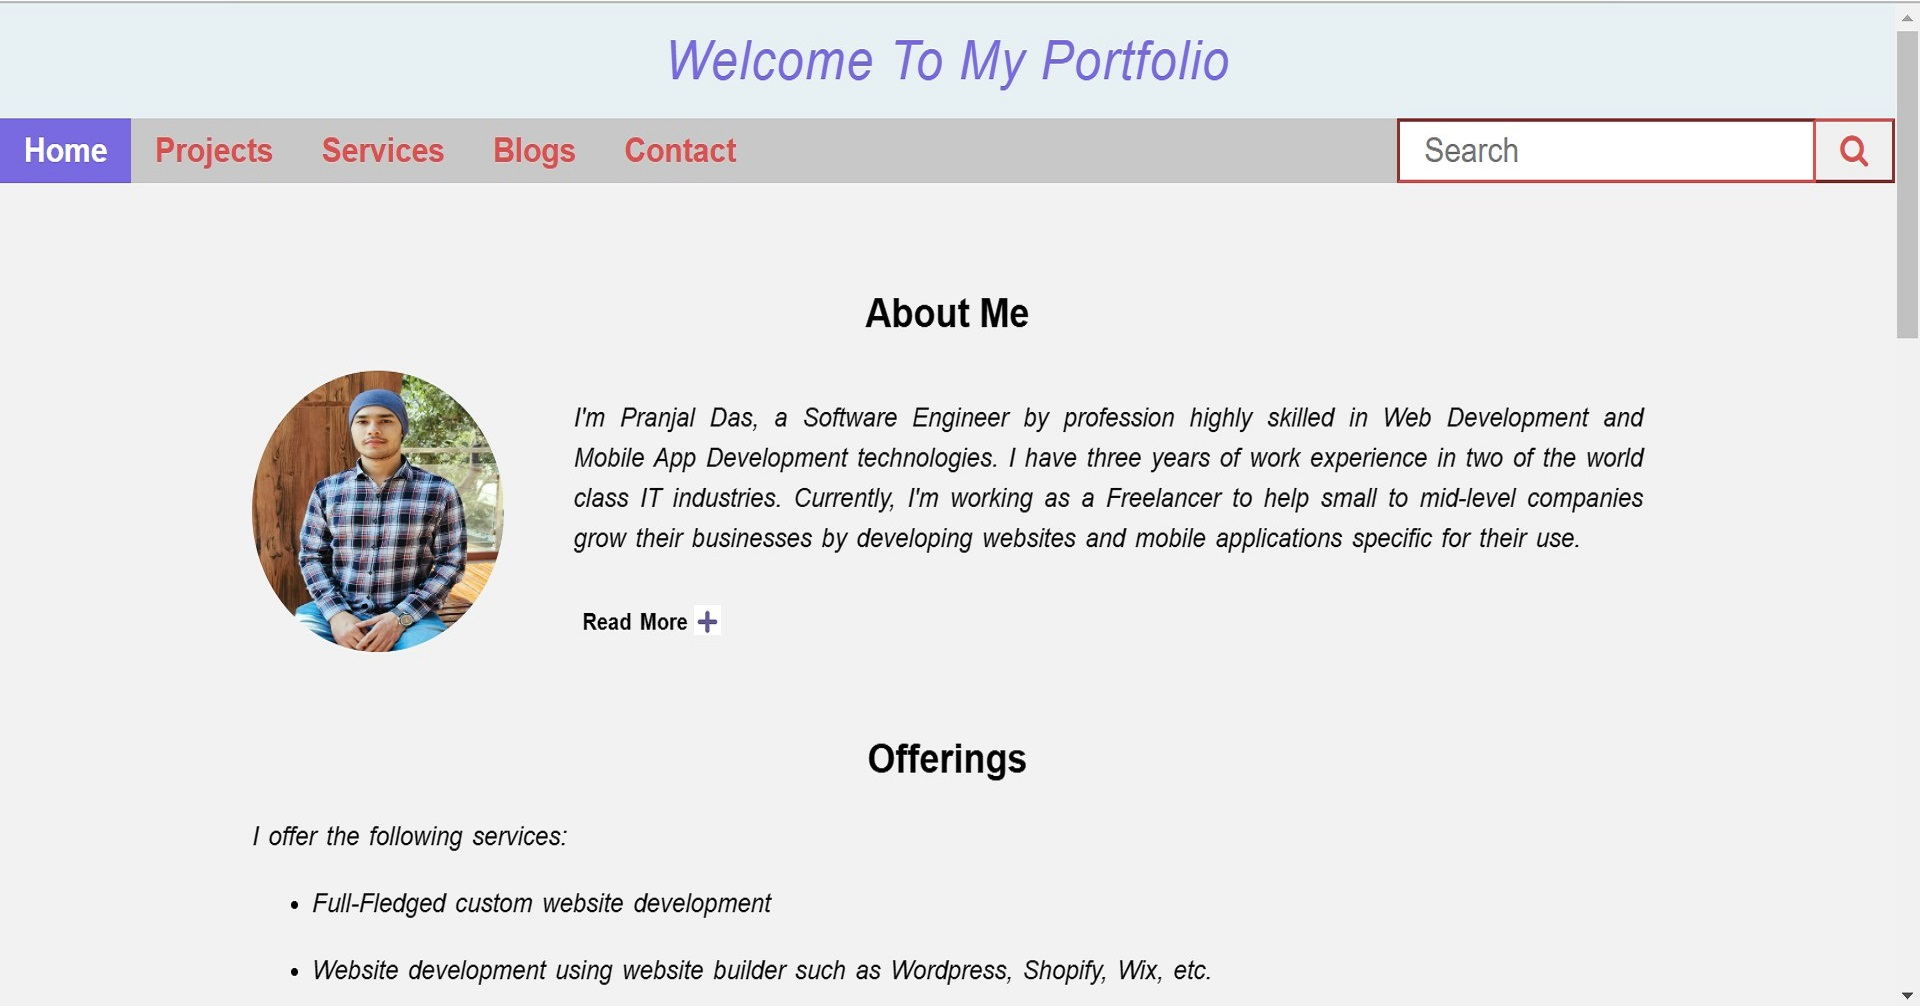
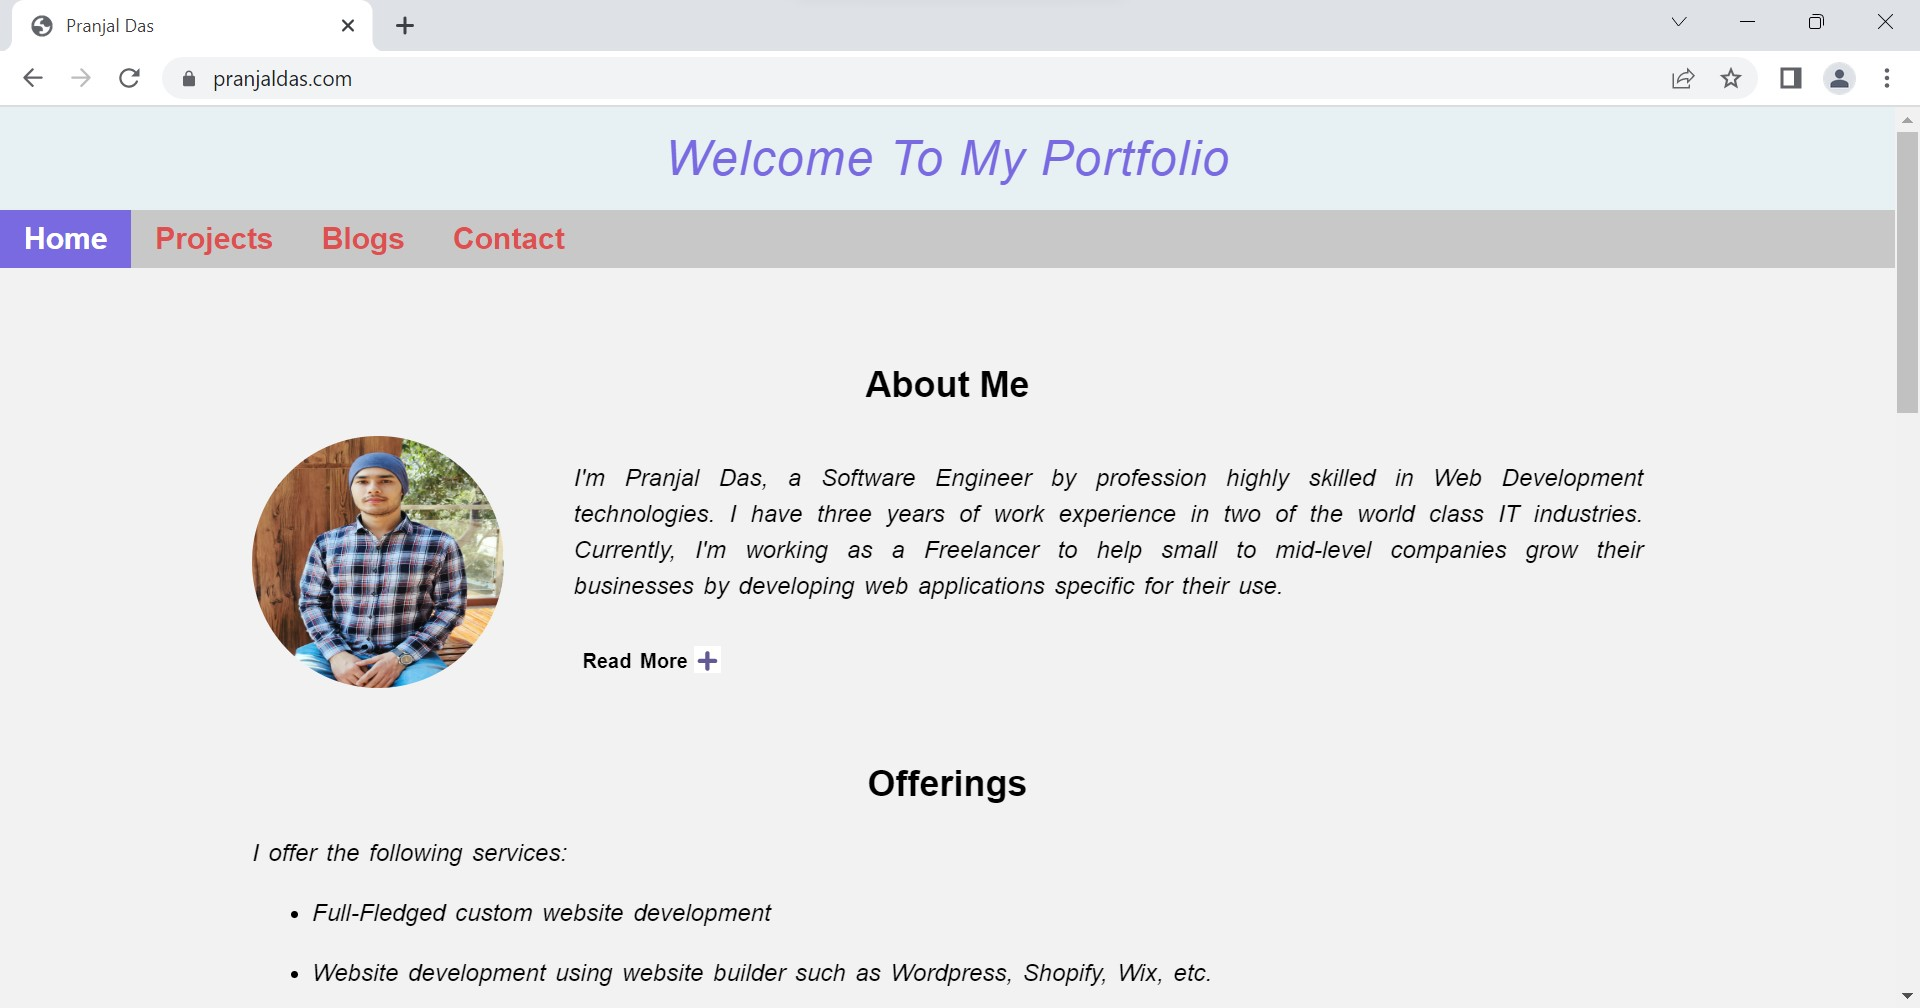
Made mobile responsive (#2)

diff --git a/resources/css/index.css b/resources/css/index.css
@@ -102,7 +102,10 @@ p {
 .nav-bar .nav-icon {
   display: none;
 }
-@media screen and (max-width: 856px) {
+@media screen and (max-width: 968px) {
+  h1 {
+    font-size: medium;
+  }
   .nav-bar a:not(:first-child), .search-container {
     display: none;
   }
@@ -168,6 +171,18 @@ footer .social-media a:hover, .copyright a:hover {
   background-color: #848282;
   color: white;
 }
+@media screen and (max-width: 560px) {
+  #scroll-top {
+    margin-right: 0px;
+  }
+  footer {
+    padding: 16px 8px 64px;
+  }
+  footer .copyright {
+    width: 100%;
+    padding-top: 16px;
+  }
+}
 
 /* Style the main section */
 main {
@@ -216,6 +231,16 @@ main {
   content: "\2796"; /* Unicode character for "minus" sign */
   float: right;
   background-color: white;
+}
+@media screen and (max-width: 968px) {
+  main {
+    margin: 64px 16px;
+  }
+  .introduction img {
+    margin-left: 20%;
+    margin-right: 60%;
+    margin-bottom: 16px;
+  }
 }
 
 /* Style the collapsible content in about section, hidden by default */
@@ -270,7 +295,7 @@ main {
   color: black;
 }
 /* Add media queries to center both the text and the image inside the container */
-@media (max-width: 720px) {
+@media (max-width: 968px) {
   .reviews {
     text-align: left;
   }
@@ -280,6 +305,8 @@ main {
     display: block;
   }
   .reviews a {
+    width: 100%;
+    padding-top: 16px;
     float: left;
   }
 }

diff --git a/resources/css/contact.css b/resources/css/contact.css
@@ -6,6 +6,16 @@ h1, footer, #scroll-top {
 .sticky + .connect {
   padding-top: 56px;
 }
+
+.connect {
+  border: none;
+  margin: 32px 80px;
+}
+
+.connect p {
+  text-align: center;
+}
+
 /* Create two columns that float next to eachother */
 .column {
   float: left;
@@ -19,17 +29,21 @@ h1, footer, #scroll-top {
   display: table;
   clear: both;
 }
-.connect {
-  border: none;
-  margin: 32px 80px;
-}
-.connect p {
-  text-align: center;
-}
+
 /* Responsive layout - when the screen is small, make the two columns stack on top of each other instead of next to each other */
-@media screen and (max-width: 600px) {
-  .column, #send {
+@media screen and (max-width: 968px) {
+  .connect {
+    margin: 32px 16px;
+  }
+  .connect p {
+    text-align: left;
+  }
+  .column {
     width: 100%;
+    padding: 20px 0px;
     margin-top: 0;
+  }
+  #send {
+    width: 100%;
   }
 }

diff --git a/resources/css/blogs.css b/resources/css/blogs.css
@@ -52,3 +52,22 @@ main {
   padding: 8px;
   width: 100%;
 }
+
+@media screen and (max-width: 968px) {
+  .content-nav-bar {
+    margin: 16px;
+    position: static;
+  }
+  main {
+    margin-left: 16px;
+    margin-right: 16px;
+  }
+  .collapse {
+    font-size: small;
+    text-align: left;
+  }
+  .description {
+    font-size: small;
+    text-align: left;
+  }
+}

diff --git a/index.html b/index.html
@@ -14,7 +14,7 @@
     
     <!-- Navigation Bar -->
     <nav class="nav-bar" id="top-nav-bar">
-        <a href="index.html" class="active-bar">Home</a>
+        <a href="/" class="active-bar">Home</a>
         <a href="projects.html">Projects</a>
         <a href="blogs.html">Blogs</a>
         <a href="contact.html">Contact</a>

diff --git a/blogs.html b/blogs.html
@@ -15,7 +15,7 @@
 
     <!-- Navigation Bar -->
     <nav class="nav-bar" id="top-nav-bar">
-        <a href="index.html">Home</a>
+        <a href="/">Home</a>
         <a href="projects.html">Projects</a>
         <a href="blogs.html" class="active-bar">Blogs</a>
         <a href="contact.html">Contact</a>

diff --git a/projects.html b/projects.html
@@ -15,7 +15,7 @@
 
     <!-- Navigation Bar -->
     <nav class="nav-bar" id="top-nav-bar">
-        <a href="index.html">Home</a>
+        <a href="/">Home</a>
         <a href="projects.html" class="active-bar">Projects</a>
         <a href="blogs.html">Blogs</a>
         <a href="contact.html">Contact</a>

diff --git a/contact.html b/contact.html
@@ -15,7 +15,7 @@
 
   <!-- Navigation Bar -->
   <nav class="nav-bar" id="top-nav-bar">
-    <a href="index.html">Home</a>
+    <a href="/">Home</a>
     <a href="projects.html">Projects</a>
     <a href="blogs.html">Blogs</a>
     <a href="contact.html" class="active-bar">Contact</a>

diff --git a/resources/css/projects.css b/resources/css/projects.css
@@ -83,3 +83,9 @@ h1, footer, #scroll-top {
     from {opacity: .4}
     to {opacity: 1}
 }
+
+@media screen and (max-width: 480px) {
+    .codelink a, .sitelink a {
+        margin-bottom: 16px;
+    }
+}
